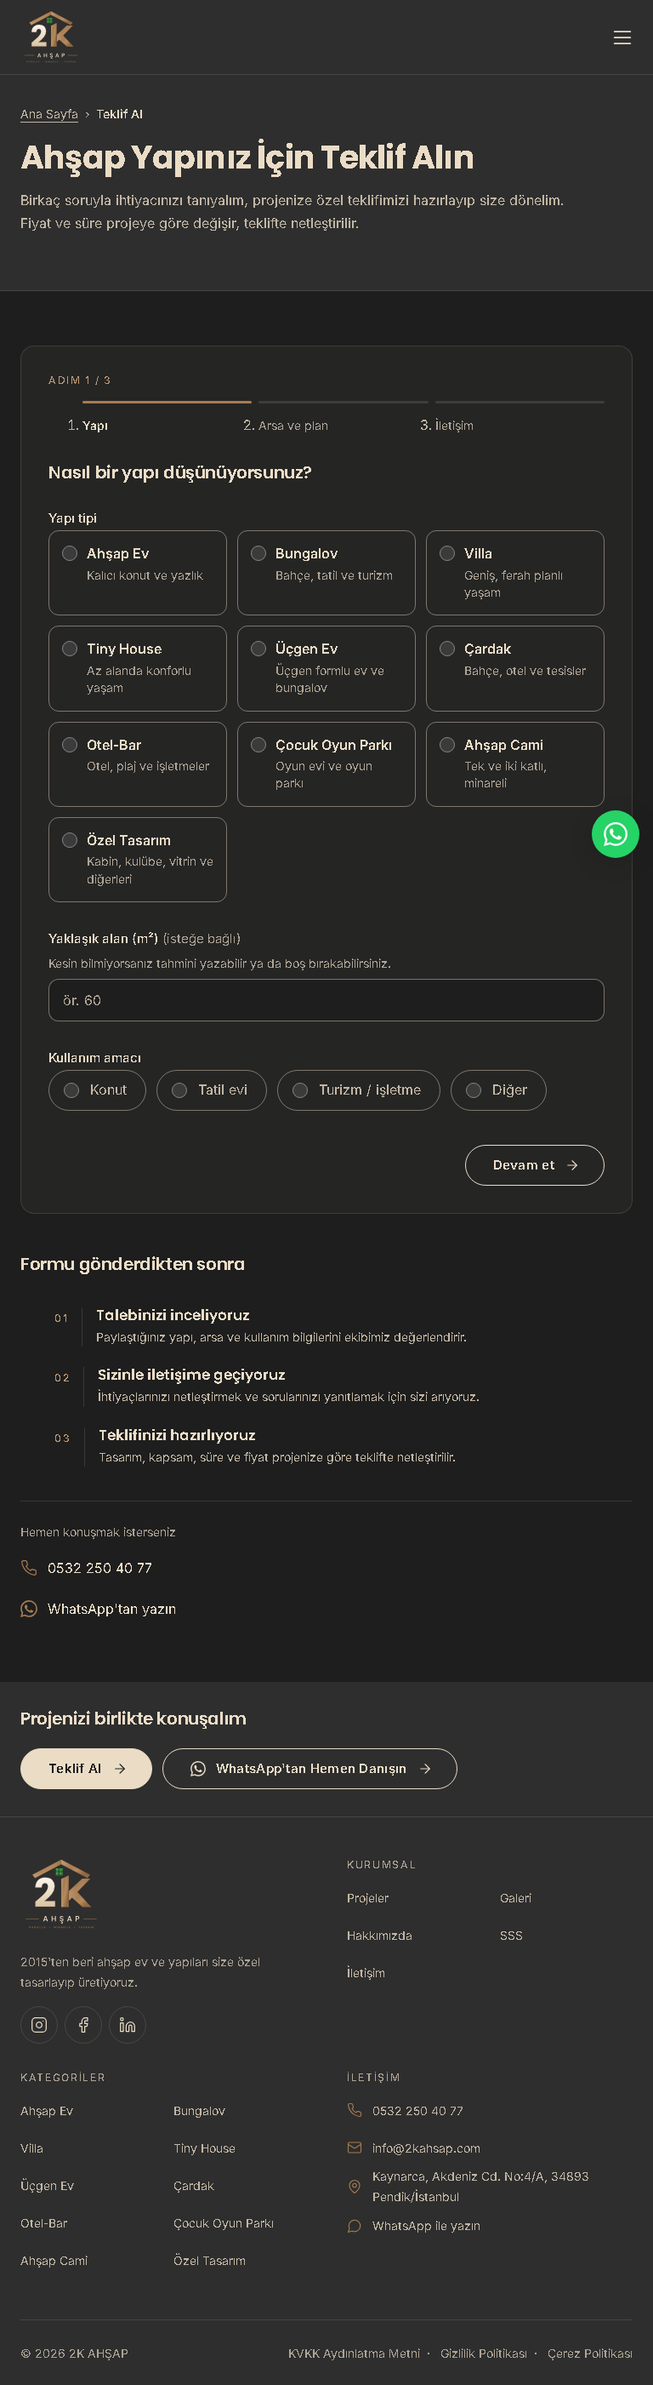
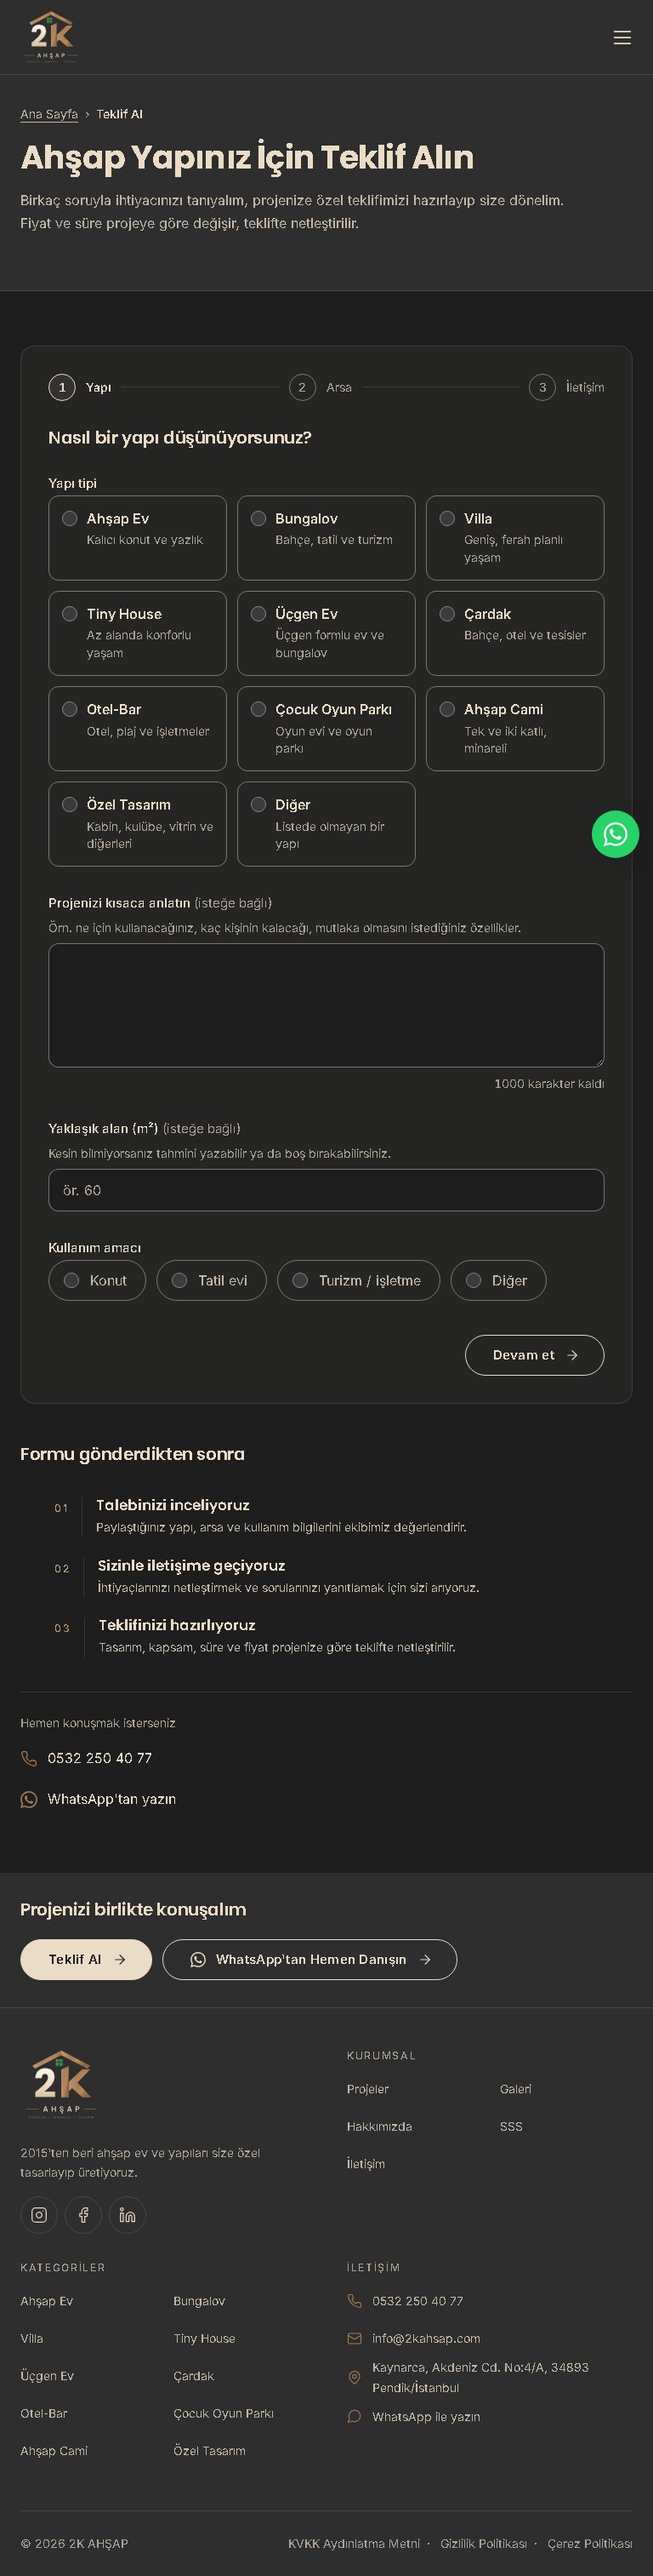
Teklif formunu güzelleştir: adım göstergesi, "Diğer" yapı tipi ve proje açıklaması
Müşteri onaylı (harita: T2-1 ve adım göstergesi). Yalnızca /teklif-al değişti.

- Adım göstergesi yeniden tasarlandı: tek satırda numaralı daire, adım adı
  (Yapı · Arsa · İletişim) ve ince çizgi. Tamamlanan adım ahşap çerçeveli onay
  işareti, bulunulan adım krem çerçeveli, sıradaki soluk. Eski "1. 2. 3."
  rakamları tarayıcının varsayılan ol numaralarıydı (global CSS yalnızca ul'yi
  sıfırlıyor); yalnızca bu listede kapatıldı. Görünen "ADIM 1 / 3" yazısı
  kalktı; ekran okuyucu "Adım 1 / 3: Yapı", aria-current="step" ve
  "tamamlandı" bilgisini alır. 360 px altında yalnızca bulunulan adımın adı
  görünür.
- Yapı tipi kartlarının sonuna "Diğer" ("Listede olmayan bir yapı") eklendi;
  alan adı yapi_tipi aynı.
- Yeni alan proje_aciklamasi ("Projenizi kısaca anlatın", en fazla 1000
  karakter, kalan karakter sayacı). Normalde isteğe bağlı, "Diğer" seçilince
  zorunlu. Mailde ve WhatsApp yedeğinde "Proje açıklaması" olarak gider, boşsa
  hiç yer almaz. 3. adımdaki not alanına dokunulmadı.
- Form envanteri güncellendi ("Diğer" + proje_aciklamasi); form-kontrol temiz.
  Gerçek test gönderimi müşteri tarafından doğrulandı.
- gorsel-kontrol: fark yalnızca T, T2, T3'teydi; bu 9 referans yenilendi,
  ardından 45/45 aynı.
- Önce/sonra görüntüleri ve ayrıntılar: docs/teklif-formu/. Taslak kaydetme
  (Prompt 9) notu: docs/onay-bekleyenler.md §5.

diff --git a/src/scripts/form.ts b/src/scripts/form.ts
@@ -26,6 +26,8 @@ const WEB3FORMS = 'https://api.web3forms.com/submit';
 const BEKLEME = 30_000;
 const ZAMAN_ASIMI = 15_000;
 const SON_GONDERIM = '2k-ahsap-son-gonderim';
+const SAYAC_UYARI = 100; // kalan karakter bu sayıya inince ekran okuyucuya da duyurulur
+const SAYAC_BEKLEME = 1_000; // duyuru, yazmaya bu kadar ara verilince yapılır (her tuşta değil)
 
 export const kural = {
   zorunlu:
@@ -111,6 +113,24 @@ export function formuKur(form: HTMLFormElement, ayar: FormAyari) {
   };
 
   const hataGosteriyor = (ad: string) => !!alanKabi(ad)?.classList.contains('alan-hatali');
+
+  // Kalan karakter sayacı (GirdiAlani'nın sayac seçeneği). Görünen sayı her tuşta güncellenir; ekran okuyucuya
+  // yalnızca sınıra yaklaşınca ve yazmaya ara verilince "… karakter kaldı" diye duyurulur.
+  form.querySelectorAll<HTMLElement>('[data-sayac]').forEach((sayac) => {
+    const kap = sayac.closest<HTMLElement>('[data-alan]');
+    const alan = kap?.querySelector<HTMLTextAreaElement>('textarea');
+    const canli = kap?.querySelector<HTMLElement>('[data-sayac-canli]');
+    if (!alan || alan.maxLength < 0) return;
+    let zamanlayici = 0;
+    const metin = () => `${alan.maxLength - alan.value.length} karakter kaldı`;
+    sayac.textContent = metin();
+    alan.addEventListener('input', () => {
+      sayac.textContent = metin();
+      clearTimeout(zamanlayici);
+      if (canli && alan.maxLength - alan.value.length <= SAYAC_UYARI)
+        zamanlayici = window.setTimeout(() => (canli.textContent = metin()), SAYAC_BEKLEME);
+    });
+  });
 
   form.addEventListener('input', (e) => {
     const ad = (e.target as HTMLInputElement).name;
@@ -270,5 +290,5 @@ export function formuKur(form: HTMLFormElement, ayar: FormAyari) {
     onayZamani = null;
   });
 
-  return { dogrula, deger };
+  return { dogrula, deger, alaniDogrula, hataGosteriyor };
 }

diff --git a/src/data/ikonlar.ts b/src/data/ikonlar.ts
@@ -14,6 +14,7 @@ export const ikon = {
   eposta: '<rect width="20" height="16" x="2" y="4" rx="2"/><path d="m22 7-8.97 5.7a1.94 1.94 0 0 1-2.06 0L2 7"/>',
   mesaj: '<path d="M7.9 20A9 9 0 1 0 4 16.1L2 22Z"/>',
   onay: '<circle cx="12" cy="12" r="10"/><path d="m9 12 2 2 4-4"/>',
+  tik: '<path d="M20 6 9 17l-5-5"/>', // teklif formunda tamamlanan adım
   // Mobil alt menü: Projeler (layout-grid), Galeri (images), Teklif Al (file-text)
   izgara:
     '<rect width="7" height="7" x="3" y="3" rx="1"/><rect width="7" height="7" x="14" y="3" rx="1"/><rect width="7" height="7" x="14" y="14" rx="1"/><rect width="7" height="7" x="3" y="14" rx="1"/>',

diff --git a/src/styles/form.css b/src/styles/form.css
@@ -107,6 +107,16 @@
   resize: vertical;
 }
 
+/* Kalan karakter sayacı: metin alanının sağ altında, hatanın üstünde */
+.alan-sayac {
+  justify-self: end;
+  margin: 0;
+  color: var(--color-metin-soluk);
+  font-size: var(--text-kucuk);
+  font-variant-numeric: tabular-nums;
+  line-height: 1.5;
+}
+
 select.girdi {
   padding-right: 48px;
   appearance: none;

diff --git a/docs/teklif-formu/README.md b/docs/teklif-formu/README.md
@@ -1,0 +1,92 @@
+# Teklif formu: adım göstergesi, "Diğer" yapı tipi ve proje açıklaması (13 Ekim 2026)
+
+Müşteri isteği (harita: T2-1 ve adım göstergesi), müşteri onaylı (13 Ekim 2026). Yalnızca `/teklif-al` sayfası değişti. Renk, font, kart, çizgi ve köşe dili mevcut token'lardan geliyor; yeni renk veya font eklenmedi.
+
+## 1. Adım göstergesi
+
+**Önceki sorun:** "ADIM 1 / 3 Yapı" yazısı, üç ince çizgi ve altlarında kaymış "1. 2. 3." rakamları vardı. Bu rakamlar tasarımın parçası değildi. Global CSS `ul` listelerinin numarasını kapatıyor ama `ol`'ü kapatmıyor. Bu yüzden tarayıcının varsayılan liste numaraları çizgilerin altında, sola kaymış olarak görünüyordu. Düzeltme yalnızca bu listede yapıldı. Global CSS'e dokunulmadı; diğer sayfalardaki `ol` listeleri (breadcrumb, "Formu gönderdikten sonra", süreç adımları) etkilenmez.
+
+**Yeni tasarım:** Tek satırda üç adım: numaralı daire + adın kendisi (Yapı · Arsa · İletişim), aralarında 1 px çizgi.
+
+| Durum | Daire | Ad | Sonraki çizgi |
+|---|---|---|---|
+| Tamamlanan | Ahşap çerçeve, onay işareti (Lucide, 1,5 px) | Ahşap açık (`--color-ahsap-acik`) | Ahşapla dolar |
+| Bulunulan | Krem çerçeve, seçili kart yüzeyi (`--color-yuzey-secili`), krem rakam | Krem, 500 | İnce krem çizgi |
+| Sıradaki | Soluk çerçeve (`--color-cizgi-girdi`), soluk rakam | Soluk (`--color-metin-soluk`) | İnce krem çizgi |
+
+- Daire 28 px, 640 px ve üstünde 32 px. Daire, ad ve çizgi aynı satırda dikeyde ortalı.
+- Durumlar renkle birlikte şekille de ayrılır (onay işareti ve rakam). Çizgi dolumu eskisi gibi yalnızca `transform: scaleX` ile; hareket azaltılmışsa anında.
+- Göstergeye tıklanmaz. Önceden de tamamlanan adıma dönme yalnızca "Geri" düğmesiyleydi; ekleme yapılmadı.
+- Görünen "ADIM 1 / 3" yazısı kaldırıldı (onaylı); bu bilgi artık ekran okuyucu metninde (aşağıda).
+- Adım başlıkları değişmedi: 2. adımın başlığı yine "Arsa ve plan". Göstergede istenen kısa ad "Arsa" kullanılır. WhatsApp mesajındaki bölüm başlığı da "Arsa ve plan" olarak kaldı.
+
+**Ekran okuyucu:**
+
+- Gizli durum metni: "Adım 2 / 3: Arsa" (adım değişince güncellenir).
+- Liste adı "Form adımları"; bulunulan adımda `aria-current="step"`, tamamlanan adımda gizli ", tamamlandı" eki.
+- Daire ve çizgiler `aria-hidden`. Adım başlıklarındaki gizli "Adım 2 / 3: " öneki eskisi gibi duruyor; adım değişince odak başlığa taşınır.
+
+**Genişlik ölçümleri** (Chromium ve WebKit aynı; üç adın toplamı ~105 px):
+
+| Genişlik | Göstergenin alanı | Görünen adlar | Çizgi boyu | Taşma |
+|---|---|---|---|---|
+| 320 | 254 px | yalnızca bulunulan adım | 31–69 px | yok |
+| 360 | 294 px | üçü | ~24 px | yok |
+| 375 | 309 px | üçü | 32 px | yok |
+| 412 | 346 px | üçü | 51 px | yok |
+| 768 | 654 px | üçü | 185 px | yok |
+| 1280 / 1920 | 670 px | üçü | 193 px | yok |
+
+- 360 px'in altında üç ad tek satıra sığmıyor. Orada yalnızca bulunulan adımın adı görünür; diğer adlar ekran okuyucuda kalır. 360 px yaygın Android genişliği olduğu için eşik 375 değil 360 px. Bu yedek düzen onaylandı.
+- 320–1920 px arasında hiçbir genişlikte yatay kaydırma yok; gösterge her genişlikte tek satır (28 / 32 px yükseklik).
+
+## 2. "Diğer" yapı tipi
+
+- Yapı tipi kartlarının sonunda, diğerleriyle aynı kart: "Diğer", alt metin "Listede olmayan bir yapı". Gönderilen değer `Diğer`, alan adı `yapi_tipi` aynı.
+- Mevcut 10 kartın sırası ve görünümü aynı. Seçenek `src/data/site.ts` kategorilerine eklenmedi (eklenseydi bir kategori sayfası doğardı); yalnızca teklif sayfasında listenin sonuna eklenir.
+- `?yapi=<kategori>` ve `?proje=<slug>` ile gelen ön seçim eskisi gibi çalışır.
+- Mobilde kartlar 2 sütun olduğu için "Diğer" son satırda tek başına durur; 640 px ve üstünde (3 sütun) son satırda "Özel Tasarım"ın yanındadır.
+
+## 3. Proje açıklaması (yeni alan)
+
+- Yapı tipi kartlarının hemen altında, mevcut metin alanlarıyla aynı stilde çok satırlı alan. `name="proje_aciklamasi"`, en fazla 1000 karakter.
+- Başlık "Projenizi kısaca anlatın", ipucu "Örn. ne için kullanacağınız, kaç kişinin kalacağı, mutlaka olmasını istediğiniz özellikler." (müşterinin onayda verdiği metin; ilk taslaktaki "Örn. kullanım amacı, oda sayısı, istediğiniz özellikler." yerine).
+- Normalde isteğe bağlı: etikette "(isteğe bağlı)" yazar. "Diğer" seçilince zorunlu olur: "(isteğe bağlı)" kalkar, alan ekran okuyucuya zorunlu duyurulur. Boşken "Devam et"e basılırsa "Lütfen nasıl bir yapı düşündüğünüzü kısaca yazın." hatası çıkar, odak alana gider. Yazınca ya da başka bir yapı tipi seçilince hata kalkar.
+- Kalan karakter sayısı alanın sağ altında görünür ("1000 karakter kaldı"). Ekran okuyucu bunu alana gelince duyar; yazarken yalnızca son 100 karaktere inince ve yazmaya ara verilince "… karakter kaldı" diye duyurulur. JS kapalıyken sayaç görünmez, sınırı tarayıcı uygular.
+- **E-posta:** "Proje açıklaması" başlığıyla, Yapı bölümünün sonunda (Kullanım amacı'ndan sonra). Boşsa e-postada hiç yer almaz.
+- **WhatsApp yedeği:** Aynı satır "*Yapı*" bölümünde. Boşsa hiç yer almaz.
+- **Taslak kaydetme:** Sitede taslak kaydetme özelliği yok (formda `localStorage`/`sessionStorage` yalnızca 30 sn'lik gönderim aralığı için kullanılıyor). Bu yüzden kapsanacak bir taslak yok; özellik de eklenmedi. Prompt 9'daki taslak kaydetme işinin bu alanı da kapsaması gerektiği `docs/onay-bekleyenler.md` §5'e not edildi.
+
+### "Ek not" alanıyla karışma denetimi
+
+3. adımda zaten bir not alanı var; ona dokunulmadı.
+
+| | 1. adım (yeni) | 3. adım (mevcut) |
+|---|---|---|
+| `name` / id | `proje_aciklamasi` / `alan-proje_aciklamasi` | `not` / `alan-not` |
+| Görünen başlık | Projenizi kısaca anlatın | Eklemek istedikleriniz |
+| İpucu | Örn. ne için kullanacağınız, kaç kişinin kalacağı, mutlaka olmasını istediğiniz özellikler. | Oda sayısı, beğendiğiniz bir proje veya özel istekleriniz. En fazla 2000 karakter. |
+| E-posta etiketi | Proje açıklaması | Not |
+| WhatsApp | *Yapı* bölümünde "Proje açıklaması: …" | *Ek not* bölümünde "Not: …" |
+| Sınır | 1000, sayaçlı | 2000, sayaçsız |
+
+- Başlıklar, id'ler, alan adları ve e-posta etiketleri birbirinden farklı; e-postada ikisi ayrı satırda gelir (sahte gönderimle denetlendi).
+- **İpuçlarının yakınlığı:** İlk taslakta iki ipucu da "oda sayısı"nı soruyordu. Onaylanan yeni ipucuyla "oda sayısı" yalnızca 3. adımda geçiyor. "Mutlaka olmasını istediğiniz özellikler" (1. adım) ile "özel istekleriniz" (3. adım) hâlâ birbirine yakın; müşteri aynı isteği iki yere yazabilir. İstenmediği için 3. adımın ipucu değiştirilmedi. İleride örneğin "Beğendiğiniz bir proje, arsaya ulaşım ya da eklemek istediğiniz başka bir şey." gibi bir metin önerilebilir (onay gerekir).
+
+## Form envanteri ve kontroller
+
+- Envanter (`docs/guvenli-mod/form-envanteri.json`) onaydan sonra güncellendi: `yapi_tipi` seçeneklerinin sonuna "Diğer" eklendi, `proje_aciklamasi` (textarea, HTML'de isteğe bağlı) eklendi. Ardından `form-kontrol` temiz geçti: 2 form, 30 alan envanterle aynı.
+- `form-kontrol` (envanter güncellenmeden önce) yalnızca beklenen iki farkı buldu: `yapi_tipi` seçeneklerine "Diğer" eklendi; `proje_aciklamasi` alanı eklendi. `access_key`, gizli alanlar, diğer alan adları, action/method ve gönderim akışı aynı.
+- `gorsel-kontrol` (referanslar yenilenmeden önce): 45 çekimin 36'sı %0 aynı. Fark yalnızca teklif sayfasının 9 çekiminde (T, T2, T3 × 375/768/1280). T uzadı ("Diğer" kartı ve açıklama alanı); T2 ve T3 42 px kısaldı (gösterge artık tek satır).
+- Onaydan sonra yalnızca bu 9 referans yenilendi (`--referans-yenile=T,T2,T3`). Ardından `gorsel-kontrol`: 45 çekimin 45'i aynı.
+- Gerçek test gönderimi (13 Ekim 2026, tek gönderim, "Diğer" + dolu açıklama + 3. adım notu): mail geldi. "Yapı tipi: Diğer" ve "Proje açıklaması" satırları var, açıklamanın ikinci satırı ayrı satırda, "Not" ayrı satırda (müşteri teyidi).
+
+## Görüntüler
+
+`prefers-reduced-motion` açık, 2× çözünürlük. Kartın üst kısmı (gösterge + adım başlığı) ve yapı tipi kartlarının sonu kırpıldı. Sabit alt menü ve yüzen WhatsApp düğmesi bu çekimlerde gizlendi (kırpılan bölgeyi örtmesinler diye; sitede yerindeler). PNG olarak çekildi, JPEG'e (kalite 85) çevrildi.
+
+- `once/`: değişiklik öncesi (dc70a92)
+- `sonra/`: değişiklikten sonra
+- `karsilastirma/`: önce | sonra yan yana
+  - `adim-1|2|3-375.jpg`, `adim-1|2|3-1280.jpg`: göstergenin üç hali. `adim-*-320.jpg`: 360 px altındaki yedek düzen.
+  - `diger-375.jpg`, `diger-1280.jpg`: önce (yapı tipi kartlarının sonu) | "Diğer" seçili, açıklama boşken "Devam et" (hata) | açıklama dolu (sayaç).

diff --git a/docs/guvenli-mod/README.md b/docs/guvenli-mod/README.md
@@ -104,6 +104,7 @@ Tek pikselden küçük bir değişiklik (çok küçük puntoda bir nokta gibi) g
 | 12 Ekim 2026 | Bu satırı ekleyen commit (kod ve referanslar birlikte) | M1 ve M2 eklendi (4 referans): mobil menü paneli hatası düzeltildikten sonra çekildi. Kaydırılmış sayfada panel header'a hapsolup kesiliyordu (`docs/hata-mobil-menu/`). Mevcut 39 referans değişmedi, düzeltmeden sonra da 39/39 aynı çıktı. Bu dört çekim düzeltme öncesi derlemede 4/4 fark verdi. |
 | 13 Ekim 2026 | Bu satırı ekleyen commit (kod ve referanslar birlikte) | Yalnızca A (ana sayfa, 3 referans) yenilendi: bölüm geçişleri düzenlendi (onaylı; `docs/gecis-secenekleri/`). Tek boşluk ritmi, bölüm sınırlarında çizgi yok, ara bölümlerde `#262625`, Ürünlerimiz bandı kartların altından başlıyor. Yenilemeden önce fark yalnızca A'nın 3 çekimindeydi; diğer 40 çekim aynıydı (ikisi gürültü düzeyinde). Ayar kapalıyken hazırlanan önizleme derlemeleri de 43/43 geçmişti. |
 | 13 Ekim 2026 | Bu satırı ekleyen commit (kod ve referanslar birlikte) | A 375 ve A 768 yenilendi, A1 eklendi (2 referans): ana sayfa hero'su telefonda ve dikey tablette düzeltildi (onaylı; `docs/hata-hero/`). Telefonda metin mobil alt menünün üstüne yaslanıyor; 641–1279 px'te hero en fazla genişliğin %90'ı kadar uzuyor. A 1280'in referansı bayt bayt aynı kaldı. Aynı commit'te kaydırılmış header'ın zemini tam opak oldu (onaylı). Bu katman kaydırılmamış çekimlerde görünmez; M1 ve M2'de de açık panelin altında kalır. Yenilemeden önce fark yalnızca A 375 ve A 768'deydi; diğer 41 çekim %0 aynıydı. |
+| 13 Ekim 2026 | Bu satırı ekleyen commit (kod ve referanslar birlikte) | Yalnızca T, T2 ve T3 yenilendi (9 referans): teklif formu (onaylı; `docs/teklif-formu/`). Adım göstergesi tek satır oldu: numaralı daire, adım adı (Yapı · Arsa · İletişim) ve ince çizgi. Görünen "ADIM 1 / 3" yazısı ve tarayıcının varsayılan "1. 2. 3." liste numaraları kalktı. Yapı tipine "Diğer" kartı, altına "Projenizi kısaca anlatın" alanı eklendi. T uzadı; T2 ve T3 42 px kısaldı. Yenilemeden önce fark yalnızca bu 9 çekimdeydi; diğer 36 çekim %0 aynıydı. Yenilemeyle aynı turda P 1280'de bilinen header düğmesi oynaması çıktı (sayfanın HTML, CSS ve JS'i değişiklik öncesiyle bayt bayt aynı); yeniden çalıştırınca 45/45 aynı. |
 
 ### Bilinen sınırlar
 

diff --git a/docs/onay-bekleyenler.md b/docs/onay-bekleyenler.md
@@ -61,3 +61,10 @@ Sitede onay gerektiren çerez veya betik yok. `/cerez-politikasi` ve `/gizlilik`
 - form gönderildikten sonra tarayıcıya yazılan `2k-ahsap-son-gonderim` kaydı (30 sn bekleme için, zorunlu işlev)
 
 Bu, `docs/denetim-raporu.md` madde 8'de de not edilmişti. Eklenmesi bir metin değişikliği olduğu için onay bekliyor.
+
+## 5. Teklif formu: taslak kaydetme (Prompt 9, 13 Ekim 2026)
+
+Teklif formunda taslak kaydetme henüz yok. Prompt 9'da yapılacak.
+
+- Taslak, 13 Ekim 2026'da 1. adıma eklenen `proje_aciklamasi` alanını ("Projenizi kısaca anlatın", en fazla 1000 karakter) da kapsamalı (müşteri isteği).
+- Bu alan yapı tipi "Diğer" seçiliyken zorunludur. Taslaktan "Diğer" geri yüklenirse alanın zorunlu durumu ve kalan karakter sayacı da güncellenmeli (`src/pages/teklif-al.astro` ve `src/scripts/form.ts`). Ayrıntı: `docs/teklif-formu/README.md`.
